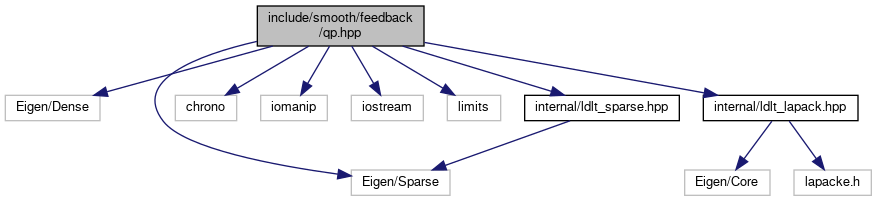
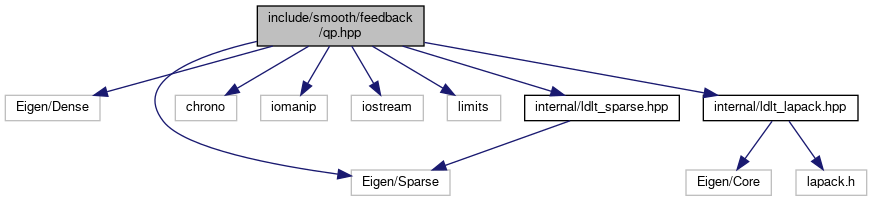
deploy: 332eeb6db991cc72f09c76f3dcb3248513830020

diff --git a/ldlt__lapack_8hpp_source.html b/ldlt__lapack_8hpp_source.html
@@ -102,12 +102,12 @@ $(function() {
 <div class="line"><a name="l00023"></a><span class="lineno">   23</span>&#160;<span class="comment">// OUT OF OR IN CONNECTION WITH THE SOFTWARE OR THE USE OR OTHER DEALINGS IN THE</span></div>
 <div class="line"><a name="l00024"></a><span class="lineno">   24</span>&#160;<span class="comment">// SOFTWARE.</span></div>
 <div class="line"><a name="l00025"></a><span class="lineno">   25</span>&#160; </div>
-<div class="line"><a name="l00026"></a><span class="lineno">   26</span>&#160;<span class="preprocessor">#ifndef SMOOOTH__FEEDBACK__INTERNAL__LDLT_LAPACK_HPP</span></div>
-<div class="line"><a name="l00027"></a><span class="lineno">   27</span>&#160;<span class="preprocessor">#define SMOOOTH__FEEDBACK__INTERNAL__LDLT_LAPACK_HPP</span></div>
+<div class="line"><a name="l00026"></a><span class="lineno">   26</span>&#160;<span class="preprocessor">#ifndef SMOOOTH__FEEDBACK__INTERNAL__LDLT_LAPACK_HPP_</span></div>
+<div class="line"><a name="l00027"></a><span class="lineno">   27</span>&#160;<span class="preprocessor">#define SMOOOTH__FEEDBACK__INTERNAL__LDLT_LAPACK_HPP_</span></div>
 <div class="line"><a name="l00028"></a><span class="lineno">   28</span>&#160; </div>
 <div class="line"><a name="l00029"></a><span class="lineno">   29</span>&#160;<span class="preprocessor">#include &lt;Eigen/Core&gt;</span></div>
 <div class="line"><a name="l00030"></a><span class="lineno">   30</span>&#160; </div>
-<div class="line"><a name="l00031"></a><span class="lineno">   31</span>&#160;<span class="preprocessor">#include &lt;lapacke.h&gt;</span></div>
+<div class="line"><a name="l00031"></a><span class="lineno">   31</span>&#160;<span class="preprocessor">#include &lt;lapack.h&gt;</span></div>
 <div class="line"><a name="l00032"></a><span class="lineno">   32</span>&#160; </div>
 <div class="line"><a name="l00038"></a><span class="lineno">   38</span>&#160;<span class="keyword">namespace </span>smooth::feedback::detail {</div>
 <div class="line"><a name="l00039"></a><span class="lineno">   39</span>&#160; </div>
@@ -115,90 +115,86 @@ $(function() {
 <div class="line"><a name="l00041"></a><span class="lineno">   41</span>&#160;<span class="keyword">template</span>&lt;<span class="keyword">typename</span> Scalar&gt;</div>
 <div class="line"><a name="l00042"></a><span class="lineno">   42</span>&#160;<span class="keyword">struct </span>lapack_xsytr</div>
 <div class="line"><a name="l00043"></a><span class="lineno">   43</span>&#160;{</div>
-<div class="line"><a name="l00044"></a><span class="lineno">   44</span>&#160;  <span class="keyword">static</span> constexpr <span class="keyword">auto</span> factor = &amp;LAPACKE_ssytrf_work;</div>
-<div class="line"><a name="l00045"></a><span class="lineno">   45</span>&#160;  <span class="keyword">static</span> constexpr <span class="keyword">auto</span> solve  = &amp;LAPACKE_ssytrs_work;</div>
+<div class="line"><a name="l00044"></a><span class="lineno">   44</span>&#160;  <span class="keyword">static</span> constexpr <span class="keyword">auto</span> factor = &amp;LAPACK_ssytrf;</div>
+<div class="line"><a name="l00045"></a><span class="lineno">   45</span>&#160;  <span class="keyword">static</span> constexpr <span class="keyword">auto</span> solve  = &amp;LAPACK_ssytrs;</div>
 <div class="line"><a name="l00046"></a><span class="lineno">   46</span>&#160;};</div>
 <div class="line"><a name="l00047"></a><span class="lineno">   47</span>&#160; </div>
 <div class="line"><a name="l00048"></a><span class="lineno">   48</span>&#160;<span class="keyword">template</span>&lt;&gt;</div>
 <div class="line"><a name="l00049"></a><span class="lineno">   49</span>&#160;<span class="keyword">struct </span>lapack_xsytr&lt;double&gt;</div>
 <div class="line"><a name="l00050"></a><span class="lineno">   50</span>&#160;{</div>
-<div class="line"><a name="l00051"></a><span class="lineno">   51</span>&#160;  <span class="keyword">static</span> constexpr <span class="keyword">auto</span> factor = &amp;LAPACKE_dsytrf_work;</div>
-<div class="line"><a name="l00052"></a><span class="lineno">   52</span>&#160;  <span class="keyword">static</span> constexpr <span class="keyword">auto</span> solve  = &amp;LAPACKE_dsytrs_work;</div>
+<div class="line"><a name="l00051"></a><span class="lineno">   51</span>&#160;  <span class="keyword">static</span> constexpr <span class="keyword">auto</span> factor = &amp;LAPACK_dsytrf;</div>
+<div class="line"><a name="l00052"></a><span class="lineno">   52</span>&#160;  <span class="keyword">static</span> constexpr <span class="keyword">auto</span> solve  = &amp;LAPACK_dsytrs;</div>
 <div class="line"><a name="l00053"></a><span class="lineno">   53</span>&#160;};</div>
 <div class="line"><a name="l00054"></a><span class="lineno">   54</span>&#160;<span class="comment">// \endcond</span></div>
 <div class="line"><a name="l00055"></a><span class="lineno">   55</span>&#160; </div>
 <div class="line"><a name="l00060"></a><span class="lineno">   60</span>&#160;<span class="keyword">template</span>&lt;<span class="keyword">typename</span> Scalar, Eigen::Index N&gt;</div>
-<div class="line"><a name="l00061"></a><span class="lineno">   61</span>&#160;  requires std::is_same_v&lt;Scalar, float&gt; || std::is_same_v&lt;Scalar, double&gt;</div>
-<div class="line"><a name="l00062"></a><span class="lineno"><a class="line" href="classsmooth_1_1feedback_1_1detail_1_1LDLTLapack.html">   62</a></span>&#160;<span class="keyword">class </span><a class="code" href="classsmooth_1_1feedback_1_1detail_1_1LDLTLapack.html">LDLTLapack</a></div>
-<div class="line"><a name="l00063"></a><span class="lineno">   63</span>&#160;{</div>
-<div class="line"><a name="l00064"></a><span class="lineno">   64</span>&#160;<span class="keyword">public</span>:</div>
-<div class="line"><a name="l00075"></a><span class="lineno"><a class="line" href="classsmooth_1_1feedback_1_1detail_1_1LDLTLapack.html#a8d80ff7602f1d84fb06fda08b73722f8">   75</a></span>&#160;  <span class="keyword">inline</span> <a class="code" href="classsmooth_1_1feedback_1_1detail_1_1LDLTLapack.html#a8d80ff7602f1d84fb06fda08b73722f8">LDLTLapack</a>(Eigen::Matrix&lt;Scalar, N, N, Eigen::ColMajor&gt; &amp;&amp; A)</div>
-<div class="line"><a name="l00076"></a><span class="lineno">   76</span>&#160;      : AF_(std::move(A)), IPIV_(AF_.cols())</div>
-<div class="line"><a name="l00077"></a><span class="lineno">   77</span>&#160;  {</div>
-<div class="line"><a name="l00078"></a><span class="lineno">   78</span>&#160;    <span class="keyword">static</span> constexpr lapack_int LWORK = N == -1 ? -1 : 3 * N;</div>
-<div class="line"><a name="l00079"></a><span class="lineno">   79</span>&#160;    Eigen::Matrix&lt;Scalar, LWORK, 1&gt; work(3 * AF_.cols());</div>
-<div class="line"><a name="l00080"></a><span class="lineno">   80</span>&#160; </div>
-<div class="line"><a name="l00081"></a><span class="lineno">   81</span>&#160;    info_ = (*lapack_xsytr&lt;Scalar&gt;::factor)(LAPACK_COL_MAJOR,</div>
-<div class="line"><a name="l00082"></a><span class="lineno">   82</span>&#160;      <span class="charliteral">&#39;U&#39;</span>,</div>
-<div class="line"><a name="l00083"></a><span class="lineno">   83</span>&#160;      AF_.cols(),</div>
-<div class="line"><a name="l00084"></a><span class="lineno">   84</span>&#160;      AF_.data(),</div>
-<div class="line"><a name="l00085"></a><span class="lineno">   85</span>&#160;      AF_.rows(),</div>
-<div class="line"><a name="l00086"></a><span class="lineno">   86</span>&#160;      IPIV_.data(),</div>
-<div class="line"><a name="l00087"></a><span class="lineno">   87</span>&#160;      work.data(),</div>
-<div class="line"><a name="l00088"></a><span class="lineno">   88</span>&#160;      work.size());</div>
-<div class="line"><a name="l00089"></a><span class="lineno">   89</span>&#160;  }</div>
-<div class="line"><a name="l00090"></a><span class="lineno">   90</span>&#160; </div>
-<div class="line"><a name="l00092"></a><span class="lineno"><a class="line" href="classsmooth_1_1feedback_1_1detail_1_1LDLTLapack.html#aa932dd4ec34af71264e3689f8a26afc0">   92</a></span>&#160;  <a class="code" href="classsmooth_1_1feedback_1_1detail_1_1LDLTLapack.html#aa932dd4ec34af71264e3689f8a26afc0">LDLTLapack</a>(<span class="keyword">const</span> <a class="code" href="classsmooth_1_1feedback_1_1detail_1_1LDLTLapack.html">LDLTLapack</a> &amp;) = <span class="keywordflow">default</span>;</div>
-<div class="line"><a name="l00094"></a><span class="lineno"><a class="line" href="classsmooth_1_1feedback_1_1detail_1_1LDLTLapack.html#acdf9f2a789ea530e8c24cc2b6a03770f">   94</a></span>&#160;  <a class="code" href="classsmooth_1_1feedback_1_1detail_1_1LDLTLapack.html">LDLTLapack</a> &amp; <a class="code" href="classsmooth_1_1feedback_1_1detail_1_1LDLTLapack.html#acdf9f2a789ea530e8c24cc2b6a03770f">operator=</a>(<span class="keyword">const</span> <a class="code" href="classsmooth_1_1feedback_1_1detail_1_1LDLTLapack.html">LDLTLapack</a> &amp;) = <span class="keywordflow">default</span>;</div>
-<div class="line"><a name="l00096"></a><span class="lineno"><a class="line" href="classsmooth_1_1feedback_1_1detail_1_1LDLTLapack.html#a6cee1de10cc138887ff8ea0b861b6167">   96</a></span>&#160;  <a class="code" href="classsmooth_1_1feedback_1_1detail_1_1LDLTLapack.html#a6cee1de10cc138887ff8ea0b861b6167">LDLTLapack</a>(<a class="code" href="classsmooth_1_1feedback_1_1detail_1_1LDLTLapack.html">LDLTLapack</a> &amp;&amp;) = <span class="keywordflow">default</span>;</div>
-<div class="line"><a name="l00098"></a><span class="lineno"><a class="line" href="classsmooth_1_1feedback_1_1detail_1_1LDLTLapack.html#a0b75419ad7bc215ed87468420ba7e77e">   98</a></span>&#160;  <a class="code" href="classsmooth_1_1feedback_1_1detail_1_1LDLTLapack.html">LDLTLapack</a> &amp; <a class="code" href="classsmooth_1_1feedback_1_1detail_1_1LDLTLapack.html#a0b75419ad7bc215ed87468420ba7e77e">operator=</a>(<a class="code" href="classsmooth_1_1feedback_1_1detail_1_1LDLTLapack.html">LDLTLapack</a> &amp;&amp;) = <span class="keywordflow">default</span>;</div>
-<div class="line"><a name="l00099"></a><span class="lineno">   99</span>&#160; </div>
-<div class="line"><a name="l00108"></a><span class="lineno"><a class="line" href="classsmooth_1_1feedback_1_1detail_1_1LDLTLapack.html#a97fc9efa34746c8365acac3efdc0eb92">  108</a></span>&#160;  <span class="keyword">inline</span> <span class="keywordtype">int</span> <a class="code" href="classsmooth_1_1feedback_1_1detail_1_1LDLTLapack.html#a97fc9efa34746c8365acac3efdc0eb92">info</a>()<span class="keyword"> const </span>{ <span class="keywordflow">return</span> info_; }</div>
-<div class="line"><a name="l00109"></a><span class="lineno">  109</span>&#160; </div>
-<div class="line"><a name="l00120"></a><span class="lineno">  120</span>&#160;  <span class="keyword">template</span>&lt;<span class="keyword">typename</span> Derived&gt;</div>
-<div class="line"><a name="l00121"></a><span class="lineno"><a class="line" href="classsmooth_1_1feedback_1_1detail_1_1LDLTLapack.html#af78ecb41485e7f7f1d6261b6369bf4d3">  121</a></span>&#160;  <span class="keyword">inline</span> <a class="code" href="classsmooth_1_1feedback_1_1detail_1_1LDLTLapack.html#af78ecb41485e7f7f1d6261b6369bf4d3">LDLTLapack</a>(<span class="keyword">const</span> Eigen::MatrixBase&lt;Derived&gt; &amp; A)</div>
-<div class="line"><a name="l00122"></a><span class="lineno">  122</span>&#160;      : <a class="code" href="classsmooth_1_1feedback_1_1detail_1_1LDLTLapack.html">LDLTLapack</a>(Eigen::Matrix&lt;Scalar, N, N&gt;(A))</div>
-<div class="line"><a name="l00123"></a><span class="lineno">  123</span>&#160;  {}</div>
-<div class="line"><a name="l00124"></a><span class="lineno">  124</span>&#160; </div>
-<div class="line"><a name="l00130"></a><span class="lineno"><a class="line" href="classsmooth_1_1feedback_1_1detail_1_1LDLTLapack.html#a5e89791eb9b05169fb0b88a4a4c3da31">  130</a></span>&#160;  <span class="keyword">inline</span> <span class="keywordtype">void</span> <a class="code" href="classsmooth_1_1feedback_1_1detail_1_1LDLTLapack.html#a5e89791eb9b05169fb0b88a4a4c3da31">solve_inplace</a>(Eigen::Matrix&lt;Scalar, N, 1&gt; &amp; b)</div>
-<div class="line"><a name="l00131"></a><span class="lineno">  131</span>&#160;  {</div>
-<div class="line"><a name="l00132"></a><span class="lineno">  132</span>&#160;    info_ = (*lapack_xsytr&lt;Scalar&gt;::solve)(LAPACK_COL_MAJOR,</div>
-<div class="line"><a name="l00133"></a><span class="lineno">  133</span>&#160;      <span class="charliteral">&#39;U&#39;</span>,</div>
-<div class="line"><a name="l00134"></a><span class="lineno">  134</span>&#160;      AF_.cols(),</div>
-<div class="line"><a name="l00135"></a><span class="lineno">  135</span>&#160;      1,</div>
-<div class="line"><a name="l00136"></a><span class="lineno">  136</span>&#160;      AF_.data(),</div>
-<div class="line"><a name="l00137"></a><span class="lineno">  137</span>&#160;      AF_.rows(),</div>
-<div class="line"><a name="l00138"></a><span class="lineno">  138</span>&#160;      IPIV_.data(),</div>
-<div class="line"><a name="l00139"></a><span class="lineno">  139</span>&#160;      b.data(),</div>
-<div class="line"><a name="l00140"></a><span class="lineno">  140</span>&#160;      AF_.rows());</div>
-<div class="line"><a name="l00141"></a><span class="lineno">  141</span>&#160;  }</div>
-<div class="line"><a name="l00142"></a><span class="lineno">  142</span>&#160; </div>
-<div class="line"><a name="l00150"></a><span class="lineno"><a class="line" href="classsmooth_1_1feedback_1_1detail_1_1LDLTLapack.html#ac20fea4805898c3e3069863e3cf4e756">  150</a></span>&#160;  <span class="keyword">inline</span> Eigen::Matrix&lt;Scalar, N, 1&gt; <a class="code" href="classsmooth_1_1feedback_1_1detail_1_1LDLTLapack.html#ac20fea4805898c3e3069863e3cf4e756">solve</a>(<span class="keyword">const</span> Eigen::Matrix&lt;Scalar, N, 1&gt; &amp; b)</div>
-<div class="line"><a name="l00151"></a><span class="lineno">  151</span>&#160;  {</div>
-<div class="line"><a name="l00152"></a><span class="lineno">  152</span>&#160;    Eigen::Matrix&lt;Scalar, N, 1&gt; x = b;</div>
-<div class="line"><a name="l00153"></a><span class="lineno">  153</span>&#160;    <a class="code" href="classsmooth_1_1feedback_1_1detail_1_1LDLTLapack.html#a5e89791eb9b05169fb0b88a4a4c3da31">solve_inplace</a>(x);</div>
-<div class="line"><a name="l00154"></a><span class="lineno">  154</span>&#160;    <span class="keywordflow">return</span> x;</div>
-<div class="line"><a name="l00155"></a><span class="lineno">  155</span>&#160;  }</div>
-<div class="line"><a name="l00156"></a><span class="lineno">  156</span>&#160; </div>
-<div class="line"><a name="l00157"></a><span class="lineno">  157</span>&#160;<span class="keyword">private</span>:</div>
-<div class="line"><a name="l00158"></a><span class="lineno">  158</span>&#160;  lapack_int info_;</div>
-<div class="line"><a name="l00159"></a><span class="lineno">  159</span>&#160;  Eigen::Matrix&lt;Scalar, N, N, Eigen::ColMajor&gt; AF_;</div>
-<div class="line"><a name="l00160"></a><span class="lineno">  160</span>&#160;  Eigen::Matrix&lt;lapack_int, N, 1&gt; IPIV_;</div>
-<div class="line"><a name="l00161"></a><span class="lineno">  161</span>&#160;};</div>
-<div class="line"><a name="l00162"></a><span class="lineno">  162</span>&#160; </div>
-<div class="line"><a name="l00163"></a><span class="lineno">  163</span>&#160;}  <span class="comment">// namespace smooth::feedback::detail</span></div>
-<div class="line"><a name="l00164"></a><span class="lineno">  164</span>&#160; </div>
-<div class="line"><a name="l00165"></a><span class="lineno">  165</span>&#160;<span class="preprocessor">#endif  </span><span class="comment">// SMOOOTH__FEEDBACK__INTERNAL__LDLT_LAPACK_HPP</span></div>
-<div class="ttc" id="aclasssmooth_1_1feedback_1_1detail_1_1LDLTLapack_html"><div class="ttname"><a href="classsmooth_1_1feedback_1_1detail_1_1LDLTLapack.html">smooth::feedback::detail::LDLTLapack</a></div><div class="ttdoc">Wrapper for LAPACKE xSYTRF / xSYTRS routines for factorizing and solving symmetric linear systems of ...</div><div class="ttdef"><b>Definition:</b> <a href="ldlt__lapack_8hpp_source.html#l00062">ldlt_lapack.hpp:63</a></div></div>
+<div class="line"><a name="l00061"></a><span class="lineno"><a class="line" href="classsmooth_1_1feedback_1_1detail_1_1LDLTLapack.html">   61</a></span>&#160;  requires std::is_same_v&lt;Scalar, float&gt; || std::is_same_v&lt;Scalar, double&gt; <span class="keyword">class </span><a class="code" href="classsmooth_1_1feedback_1_1detail_1_1LDLTLapack.html">LDLTLapack</a></div>
+<div class="line"><a name="l00062"></a><span class="lineno">   62</span>&#160;{</div>
+<div class="line"><a name="l00063"></a><span class="lineno">   63</span>&#160;<span class="keyword">public</span>:</div>
+<div class="line"><a name="l00074"></a><span class="lineno"><a class="line" href="classsmooth_1_1feedback_1_1detail_1_1LDLTLapack.html#a8d80ff7602f1d84fb06fda08b73722f8">   74</a></span>&#160;  <span class="keyword">inline</span> <a class="code" href="classsmooth_1_1feedback_1_1detail_1_1LDLTLapack.html#a8d80ff7602f1d84fb06fda08b73722f8">LDLTLapack</a>(Eigen::Matrix&lt;Scalar, N, N, Eigen::ColMajor&gt; &amp;&amp; A)</div>
+<div class="line"><a name="l00075"></a><span class="lineno">   75</span>&#160;      : AF_(std::move(A)), IPIV_(AF_.cols())</div>
+<div class="line"><a name="l00076"></a><span class="lineno">   76</span>&#160;  {</div>
+<div class="line"><a name="l00077"></a><span class="lineno">   77</span>&#160;    <span class="keyword">static</span> constexpr lapack_int LWORK = N == -1 ? -1 : 3 * N;</div>
+<div class="line"><a name="l00078"></a><span class="lineno">   78</span>&#160;    Eigen::Matrix&lt;Scalar, LWORK, 1&gt; work(3 * AF_.cols());</div>
+<div class="line"><a name="l00079"></a><span class="lineno">   79</span>&#160; </div>
+<div class="line"><a name="l00080"></a><span class="lineno">   80</span>&#160;    <span class="keyword">static</span> constexpr <span class="keywordtype">char</span> U = <span class="charliteral">&#39;U&#39;</span>;</div>
+<div class="line"><a name="l00081"></a><span class="lineno">   81</span>&#160;    <span class="keyword">const</span> lapack_int n      = AF_.cols();</div>
+<div class="line"><a name="l00082"></a><span class="lineno">   82</span>&#160;    <span class="keyword">const</span> lapack_int lda    = AF_.rows();</div>
+<div class="line"><a name="l00083"></a><span class="lineno">   83</span>&#160;    <span class="keyword">const</span> lapack_int lwork  = work.size();</div>
+<div class="line"><a name="l00084"></a><span class="lineno">   84</span>&#160; </div>
+<div class="line"><a name="l00085"></a><span class="lineno">   85</span>&#160;    (*lapack_xsytr&lt;Scalar&gt;::factor)(</div>
+<div class="line"><a name="l00086"></a><span class="lineno">   86</span>&#160;      &amp;U, &amp;n, AF_.data(), &amp;lda, IPIV_.data(), work.data(), &amp;lwork, &amp;info_);</div>
+<div class="line"><a name="l00087"></a><span class="lineno">   87</span>&#160;  }</div>
+<div class="line"><a name="l00088"></a><span class="lineno">   88</span>&#160; </div>
+<div class="line"><a name="l00090"></a><span class="lineno"><a class="line" href="classsmooth_1_1feedback_1_1detail_1_1LDLTLapack.html#aa932dd4ec34af71264e3689f8a26afc0">   90</a></span>&#160;  <a class="code" href="classsmooth_1_1feedback_1_1detail_1_1LDLTLapack.html#aa932dd4ec34af71264e3689f8a26afc0">LDLTLapack</a>(<span class="keyword">const</span> <a class="code" href="classsmooth_1_1feedback_1_1detail_1_1LDLTLapack.html">LDLTLapack</a> &amp;) = <span class="keywordflow">default</span>;</div>
+<div class="line"><a name="l00092"></a><span class="lineno"><a class="line" href="classsmooth_1_1feedback_1_1detail_1_1LDLTLapack.html#acdf9f2a789ea530e8c24cc2b6a03770f">   92</a></span>&#160;  <a class="code" href="classsmooth_1_1feedback_1_1detail_1_1LDLTLapack.html">LDLTLapack</a> &amp; <a class="code" href="classsmooth_1_1feedback_1_1detail_1_1LDLTLapack.html#acdf9f2a789ea530e8c24cc2b6a03770f">operator=</a>(<span class="keyword">const</span> <a class="code" href="classsmooth_1_1feedback_1_1detail_1_1LDLTLapack.html">LDLTLapack</a> &amp;) = <span class="keywordflow">default</span>;</div>
+<div class="line"><a name="l00094"></a><span class="lineno"><a class="line" href="classsmooth_1_1feedback_1_1detail_1_1LDLTLapack.html#a6cee1de10cc138887ff8ea0b861b6167">   94</a></span>&#160;  <a class="code" href="classsmooth_1_1feedback_1_1detail_1_1LDLTLapack.html#a6cee1de10cc138887ff8ea0b861b6167">LDLTLapack</a>(<a class="code" href="classsmooth_1_1feedback_1_1detail_1_1LDLTLapack.html">LDLTLapack</a> &amp;&amp;) = <span class="keywordflow">default</span>;</div>
+<div class="line"><a name="l00096"></a><span class="lineno"><a class="line" href="classsmooth_1_1feedback_1_1detail_1_1LDLTLapack.html#a0b75419ad7bc215ed87468420ba7e77e">   96</a></span>&#160;  <a class="code" href="classsmooth_1_1feedback_1_1detail_1_1LDLTLapack.html">LDLTLapack</a> &amp; <a class="code" href="classsmooth_1_1feedback_1_1detail_1_1LDLTLapack.html#a0b75419ad7bc215ed87468420ba7e77e">operator=</a>(<a class="code" href="classsmooth_1_1feedback_1_1detail_1_1LDLTLapack.html">LDLTLapack</a> &amp;&amp;) = <span class="keywordflow">default</span>;</div>
+<div class="line"><a name="l00097"></a><span class="lineno">   97</span>&#160; </div>
+<div class="line"><a name="l00106"></a><span class="lineno"><a class="line" href="classsmooth_1_1feedback_1_1detail_1_1LDLTLapack.html#a97fc9efa34746c8365acac3efdc0eb92">  106</a></span>&#160;  <span class="keyword">inline</span> <span class="keywordtype">int</span> <a class="code" href="classsmooth_1_1feedback_1_1detail_1_1LDLTLapack.html#a97fc9efa34746c8365acac3efdc0eb92">info</a>()<span class="keyword"> const </span>{ <span class="keywordflow">return</span> info_; }</div>
+<div class="line"><a name="l00107"></a><span class="lineno">  107</span>&#160; </div>
+<div class="line"><a name="l00118"></a><span class="lineno">  118</span>&#160;  <span class="keyword">template</span>&lt;<span class="keyword">typename</span> Derived&gt;</div>
+<div class="line"><a name="l00119"></a><span class="lineno"><a class="line" href="classsmooth_1_1feedback_1_1detail_1_1LDLTLapack.html#af78ecb41485e7f7f1d6261b6369bf4d3">  119</a></span>&#160;  <span class="keyword">inline</span> <a class="code" href="classsmooth_1_1feedback_1_1detail_1_1LDLTLapack.html#af78ecb41485e7f7f1d6261b6369bf4d3">LDLTLapack</a>(<span class="keyword">const</span> Eigen::MatrixBase&lt;Derived&gt; &amp; A)</div>
+<div class="line"><a name="l00120"></a><span class="lineno">  120</span>&#160;      : <a class="code" href="classsmooth_1_1feedback_1_1detail_1_1LDLTLapack.html">LDLTLapack</a>(Eigen::Matrix&lt;Scalar, N, N&gt;(A))</div>
+<div class="line"><a name="l00121"></a><span class="lineno">  121</span>&#160;  {}</div>
+<div class="line"><a name="l00122"></a><span class="lineno">  122</span>&#160; </div>
+<div class="line"><a name="l00128"></a><span class="lineno"><a class="line" href="classsmooth_1_1feedback_1_1detail_1_1LDLTLapack.html#a5e89791eb9b05169fb0b88a4a4c3da31">  128</a></span>&#160;  <span class="keyword">inline</span> <span class="keywordtype">void</span> <a class="code" href="classsmooth_1_1feedback_1_1detail_1_1LDLTLapack.html#a5e89791eb9b05169fb0b88a4a4c3da31">solve_inplace</a>(Eigen::Matrix&lt;Scalar, N, 1&gt; &amp; b)</div>
+<div class="line"><a name="l00129"></a><span class="lineno">  129</span>&#160;  {</div>
+<div class="line"><a name="l00130"></a><span class="lineno">  130</span>&#160;    <span class="keyword">static</span> constexpr <span class="keywordtype">char</span> U         = <span class="charliteral">&#39;U&#39;</span>;</div>
+<div class="line"><a name="l00131"></a><span class="lineno">  131</span>&#160;    <span class="keyword">static</span> constexpr lapack_int one = 1;</div>
+<div class="line"><a name="l00132"></a><span class="lineno">  132</span>&#160;    <span class="keyword">const</span> lapack_int n              = AF_.cols();</div>
+<div class="line"><a name="l00133"></a><span class="lineno">  133</span>&#160;    <span class="keyword">const</span> lapack_int lda            = AF_.rows();</div>
+<div class="line"><a name="l00134"></a><span class="lineno">  134</span>&#160; </div>
+<div class="line"><a name="l00135"></a><span class="lineno">  135</span>&#160;    (*lapack_xsytr&lt;Scalar&gt;::solve)(</div>
+<div class="line"><a name="l00136"></a><span class="lineno">  136</span>&#160;      &amp;U, &amp;n, &amp;one, AF_.data(), &amp;lda, IPIV_.data(), b.data(), &amp;lda, &amp;info_);</div>
+<div class="line"><a name="l00137"></a><span class="lineno">  137</span>&#160;  }</div>
+<div class="line"><a name="l00138"></a><span class="lineno">  138</span>&#160; </div>
+<div class="line"><a name="l00146"></a><span class="lineno"><a class="line" href="classsmooth_1_1feedback_1_1detail_1_1LDLTLapack.html#ac20fea4805898c3e3069863e3cf4e756">  146</a></span>&#160;  <span class="keyword">inline</span> Eigen::Matrix&lt;Scalar, N, 1&gt; <a class="code" href="classsmooth_1_1feedback_1_1detail_1_1LDLTLapack.html#ac20fea4805898c3e3069863e3cf4e756">solve</a>(<span class="keyword">const</span> Eigen::Matrix&lt;Scalar, N, 1&gt; &amp; b)</div>
+<div class="line"><a name="l00147"></a><span class="lineno">  147</span>&#160;  {</div>
+<div class="line"><a name="l00148"></a><span class="lineno">  148</span>&#160;    Eigen::Matrix&lt;Scalar, N, 1&gt; x = b;</div>
+<div class="line"><a name="l00149"></a><span class="lineno">  149</span>&#160;    <a class="code" href="classsmooth_1_1feedback_1_1detail_1_1LDLTLapack.html#a5e89791eb9b05169fb0b88a4a4c3da31">solve_inplace</a>(x);</div>
+<div class="line"><a name="l00150"></a><span class="lineno">  150</span>&#160;    <span class="keywordflow">return</span> x;</div>
+<div class="line"><a name="l00151"></a><span class="lineno">  151</span>&#160;  }</div>
+<div class="line"><a name="l00152"></a><span class="lineno">  152</span>&#160; </div>
+<div class="line"><a name="l00153"></a><span class="lineno">  153</span>&#160;<span class="keyword">private</span>:</div>
+<div class="line"><a name="l00154"></a><span class="lineno">  154</span>&#160;  lapack_int info_;</div>
+<div class="line"><a name="l00155"></a><span class="lineno">  155</span>&#160;  Eigen::Matrix&lt;Scalar, N, N, Eigen::ColMajor&gt; AF_;</div>
+<div class="line"><a name="l00156"></a><span class="lineno">  156</span>&#160;  Eigen::Matrix&lt;lapack_int, N, 1&gt; IPIV_;</div>
+<div class="line"><a name="l00157"></a><span class="lineno">  157</span>&#160;};</div>
+<div class="line"><a name="l00158"></a><span class="lineno">  158</span>&#160; </div>
+<div class="line"><a name="l00159"></a><span class="lineno">  159</span>&#160;}  <span class="comment">// namespace smooth::feedback::detail</span></div>
+<div class="line"><a name="l00160"></a><span class="lineno">  160</span>&#160; </div>
+<div class="line"><a name="l00161"></a><span class="lineno">  161</span>&#160;<span class="preprocessor">#endif  </span><span class="comment">// SMOOOTH__FEEDBACK__INTERNAL__LDLT_LAPACK_HPP_</span></div>
+<div class="ttc" id="aclasssmooth_1_1feedback_1_1detail_1_1LDLTLapack_html"><div class="ttname"><a href="classsmooth_1_1feedback_1_1detail_1_1LDLTLapack.html">smooth::feedback::detail::LDLTLapack</a></div><div class="ttdoc">Wrapper for LAPACKE xSYTRF / xSYTRS routines for factorizing and solving symmetric linear systems of ...</div><div class="ttdef"><b>Definition:</b> <a href="ldlt__lapack_8hpp_source.html#l00061">ldlt_lapack.hpp:62</a></div></div>
 <div class="ttc" id="aclasssmooth_1_1feedback_1_1detail_1_1LDLTLapack_html_a0b75419ad7bc215ed87468420ba7e77e"><div class="ttname"><a href="classsmooth_1_1feedback_1_1detail_1_1LDLTLapack.html#a0b75419ad7bc215ed87468420ba7e77e">smooth::feedback::detail::LDLTLapack::operator=</a></div><div class="ttdeci">LDLTLapack &amp; operator=(LDLTLapack &amp;&amp;)=default</div><div class="ttdoc">Default move assignment.</div></div>
-<div class="ttc" id="aclasssmooth_1_1feedback_1_1detail_1_1LDLTLapack_html_a5e89791eb9b05169fb0b88a4a4c3da31"><div class="ttname"><a href="classsmooth_1_1feedback_1_1detail_1_1LDLTLapack.html#a5e89791eb9b05169fb0b88a4a4c3da31">smooth::feedback::detail::LDLTLapack::solve_inplace</a></div><div class="ttdeci">void solve_inplace(Eigen::Matrix&lt; Scalar, N, 1 &gt; &amp;b)</div><div class="ttdoc">Solve linear symmetric system of equations in-place.</div><div class="ttdef"><b>Definition:</b> <a href="ldlt__lapack_8hpp_source.html#l00130">ldlt_lapack.hpp:130</a></div></div>
+<div class="ttc" id="aclasssmooth_1_1feedback_1_1detail_1_1LDLTLapack_html_a5e89791eb9b05169fb0b88a4a4c3da31"><div class="ttname"><a href="classsmooth_1_1feedback_1_1detail_1_1LDLTLapack.html#a5e89791eb9b05169fb0b88a4a4c3da31">smooth::feedback::detail::LDLTLapack::solve_inplace</a></div><div class="ttdeci">void solve_inplace(Eigen::Matrix&lt; Scalar, N, 1 &gt; &amp;b)</div><div class="ttdoc">Solve linear symmetric system of equations in-place.</div><div class="ttdef"><b>Definition:</b> <a href="ldlt__lapack_8hpp_source.html#l00128">ldlt_lapack.hpp:128</a></div></div>
 <div class="ttc" id="aclasssmooth_1_1feedback_1_1detail_1_1LDLTLapack_html_a6cee1de10cc138887ff8ea0b861b6167"><div class="ttname"><a href="classsmooth_1_1feedback_1_1detail_1_1LDLTLapack.html#a6cee1de10cc138887ff8ea0b861b6167">smooth::feedback::detail::LDLTLapack::LDLTLapack</a></div><div class="ttdeci">LDLTLapack(LDLTLapack &amp;&amp;)=default</div><div class="ttdoc">Default move constructor.</div></div>
-<div class="ttc" id="aclasssmooth_1_1feedback_1_1detail_1_1LDLTLapack_html_a8d80ff7602f1d84fb06fda08b73722f8"><div class="ttname"><a href="classsmooth_1_1feedback_1_1detail_1_1LDLTLapack.html#a8d80ff7602f1d84fb06fda08b73722f8">smooth::feedback::detail::LDLTLapack::LDLTLapack</a></div><div class="ttdeci">LDLTLapack(Eigen::Matrix&lt; Scalar, N, N, Eigen::ColMajor &gt; &amp;&amp;A)</div><div class="ttdoc">Factorize symmetric  to enable solving .</div><div class="ttdef"><b>Definition:</b> <a href="ldlt__lapack_8hpp_source.html#l00075">ldlt_lapack.hpp:75</a></div></div>
-<div class="ttc" id="aclasssmooth_1_1feedback_1_1detail_1_1LDLTLapack_html_a97fc9efa34746c8365acac3efdc0eb92"><div class="ttname"><a href="classsmooth_1_1feedback_1_1detail_1_1LDLTLapack.html#a97fc9efa34746c8365acac3efdc0eb92">smooth::feedback::detail::LDLTLapack::info</a></div><div class="ttdeci">int info() const</div><div class="ttdoc">Factorization status.</div><div class="ttdef"><b>Definition:</b> <a href="ldlt__lapack_8hpp_source.html#l00108">ldlt_lapack.hpp:108</a></div></div>
+<div class="ttc" id="aclasssmooth_1_1feedback_1_1detail_1_1LDLTLapack_html_a8d80ff7602f1d84fb06fda08b73722f8"><div class="ttname"><a href="classsmooth_1_1feedback_1_1detail_1_1LDLTLapack.html#a8d80ff7602f1d84fb06fda08b73722f8">smooth::feedback::detail::LDLTLapack::LDLTLapack</a></div><div class="ttdeci">LDLTLapack(Eigen::Matrix&lt; Scalar, N, N, Eigen::ColMajor &gt; &amp;&amp;A)</div><div class="ttdoc">Factorize symmetric  to enable solving .</div><div class="ttdef"><b>Definition:</b> <a href="ldlt__lapack_8hpp_source.html#l00074">ldlt_lapack.hpp:74</a></div></div>
+<div class="ttc" id="aclasssmooth_1_1feedback_1_1detail_1_1LDLTLapack_html_a97fc9efa34746c8365acac3efdc0eb92"><div class="ttname"><a href="classsmooth_1_1feedback_1_1detail_1_1LDLTLapack.html#a97fc9efa34746c8365acac3efdc0eb92">smooth::feedback::detail::LDLTLapack::info</a></div><div class="ttdeci">int info() const</div><div class="ttdoc">Factorization status.</div><div class="ttdef"><b>Definition:</b> <a href="ldlt__lapack_8hpp_source.html#l00106">ldlt_lapack.hpp:106</a></div></div>
 <div class="ttc" id="aclasssmooth_1_1feedback_1_1detail_1_1LDLTLapack_html_aa932dd4ec34af71264e3689f8a26afc0"><div class="ttname"><a href="classsmooth_1_1feedback_1_1detail_1_1LDLTLapack.html#aa932dd4ec34af71264e3689f8a26afc0">smooth::feedback::detail::LDLTLapack::LDLTLapack</a></div><div class="ttdeci">LDLTLapack(const LDLTLapack &amp;)=default</div><div class="ttdoc">Default copy constructor.</div></div>
-<div class="ttc" id="aclasssmooth_1_1feedback_1_1detail_1_1LDLTLapack_html_ac20fea4805898c3e3069863e3cf4e756"><div class="ttname"><a href="classsmooth_1_1feedback_1_1detail_1_1LDLTLapack.html#ac20fea4805898c3e3069863e3cf4e756">smooth::feedback::detail::LDLTLapack::solve</a></div><div class="ttdeci">Eigen::Matrix&lt; Scalar, N, 1 &gt; solve(const Eigen::Matrix&lt; Scalar, N, 1 &gt; &amp;b)</div><div class="ttdoc">Solve linear symmetric system of equations.</div><div class="ttdef"><b>Definition:</b> <a href="ldlt__lapack_8hpp_source.html#l00150">ldlt_lapack.hpp:150</a></div></div>
+<div class="ttc" id="aclasssmooth_1_1feedback_1_1detail_1_1LDLTLapack_html_ac20fea4805898c3e3069863e3cf4e756"><div class="ttname"><a href="classsmooth_1_1feedback_1_1detail_1_1LDLTLapack.html#ac20fea4805898c3e3069863e3cf4e756">smooth::feedback::detail::LDLTLapack::solve</a></div><div class="ttdeci">Eigen::Matrix&lt; Scalar, N, 1 &gt; solve(const Eigen::Matrix&lt; Scalar, N, 1 &gt; &amp;b)</div><div class="ttdoc">Solve linear symmetric system of equations.</div><div class="ttdef"><b>Definition:</b> <a href="ldlt__lapack_8hpp_source.html#l00146">ldlt_lapack.hpp:146</a></div></div>
 <div class="ttc" id="aclasssmooth_1_1feedback_1_1detail_1_1LDLTLapack_html_acdf9f2a789ea530e8c24cc2b6a03770f"><div class="ttname"><a href="classsmooth_1_1feedback_1_1detail_1_1LDLTLapack.html#acdf9f2a789ea530e8c24cc2b6a03770f">smooth::feedback::detail::LDLTLapack::operator=</a></div><div class="ttdeci">LDLTLapack &amp; operator=(const LDLTLapack &amp;)=default</div><div class="ttdoc">Default copy assignment.</div></div>
-<div class="ttc" id="aclasssmooth_1_1feedback_1_1detail_1_1LDLTLapack_html_af78ecb41485e7f7f1d6261b6369bf4d3"><div class="ttname"><a href="classsmooth_1_1feedback_1_1detail_1_1LDLTLapack.html#af78ecb41485e7f7f1d6261b6369bf4d3">smooth::feedback::detail::LDLTLapack::LDLTLapack</a></div><div class="ttdeci">LDLTLapack(const Eigen::MatrixBase&lt; Derived &gt; &amp;A)</div><div class="ttdoc">Factorize symmetric  to enable solving .</div><div class="ttdef"><b>Definition:</b> <a href="ldlt__lapack_8hpp_source.html#l00121">ldlt_lapack.hpp:121</a></div></div>
+<div class="ttc" id="aclasssmooth_1_1feedback_1_1detail_1_1LDLTLapack_html_af78ecb41485e7f7f1d6261b6369bf4d3"><div class="ttname"><a href="classsmooth_1_1feedback_1_1detail_1_1LDLTLapack.html#af78ecb41485e7f7f1d6261b6369bf4d3">smooth::feedback::detail::LDLTLapack::LDLTLapack</a></div><div class="ttdeci">LDLTLapack(const Eigen::MatrixBase&lt; Derived &gt; &amp;A)</div><div class="ttdoc">Factorize symmetric  to enable solving .</div><div class="ttdef"><b>Definition:</b> <a href="ldlt__lapack_8hpp_source.html#l00119">ldlt_lapack.hpp:119</a></div></div>
 </div><!-- fragment --></div><!-- contents -->
 <!-- start footer part -->
 <hr class="footer"/><address class="footer"><small>

diff --git a/classsmooth_1_1feedback_1_1detail_1_1LDLTLapack.html b/classsmooth_1_1feedback_1_1detail_1_1LDLTLapack.html
@@ -127,7 +127,7 @@ class smooth::feedback::detail::LDLTLapack&lt; Scalar, N &gt;</h3>
 
 <p>Wrapper for LAPACKE xSYTRF / xSYTRS routines for factorizing and solving symmetric linear systems of equations. </p>
 
-<p class="definition">Definition at line <a class="el" href="ldlt__lapack_8hpp_source.html#l00062">62</a> of file <a class="el" href="ldlt__lapack_8hpp_source.html">ldlt_lapack.hpp</a>.</p>
+<p class="definition">Definition at line <a class="el" href="ldlt__lapack_8hpp_source.html#l00061">61</a> of file <a class="el" href="ldlt__lapack_8hpp_source.html">ldlt_lapack.hpp</a>.</p>
 </div><h2 class="groupheader">Constructor &amp; Destructor Documentation</h2>
 <a id="a8d80ff7602f1d84fb06fda08b73722f8"></a>
 <h2 class="memtitle"><span class="permalink"><a href="#a8d80ff7602f1d84fb06fda08b73722f8">&#9670;&nbsp;</a></span>LDLTLapack() <span class="overload">[1/2]</span></h2>
@@ -165,7 +165,7 @@ template&lt;typename Scalar , Eigen::Index N&gt; </div>
 </dl>
 <dl class="section note"><dt>Note</dt><dd>Only the upper triangular part of \( A \) is accessed. </dd></dl>
 
-<p class="definition">Definition at line <a class="el" href="ldlt__lapack_8hpp_source.html#l00075">75</a> of file <a class="el" href="ldlt__lapack_8hpp_source.html">ldlt_lapack.hpp</a>.</p>
+<p class="definition">Definition at line <a class="el" href="ldlt__lapack_8hpp_source.html#l00074">74</a> of file <a class="el" href="ldlt__lapack_8hpp_source.html">ldlt_lapack.hpp</a>.</p>
 
 </div>
 </div>
@@ -207,7 +207,7 @@ template&lt;typename Derived &gt; </div>
 </dl>
 <dl class="section note"><dt>Note</dt><dd>Only the upper triangular part of \( A \) is accessed. </dd></dl>
 
-<p class="definition">Definition at line <a class="el" href="ldlt__lapack_8hpp_source.html#l00121">121</a> of file <a class="el" href="ldlt__lapack_8hpp_source.html">ldlt_lapack.hpp</a>.</p>
+<p class="definition">Definition at line <a class="el" href="ldlt__lapack_8hpp_source.html#l00119">119</a> of file <a class="el" href="ldlt__lapack_8hpp_source.html">ldlt_lapack.hpp</a>.</p>
 
 </div>
 </div>
@@ -244,7 +244,7 @@ template&lt;typename Scalar , Eigen::Index N&gt; </div>
 <li>\( i &gt; 0 \): input matrix is singular s.t. \( D(i-1, i-1) = 0 \). </li>
 </ul>
 
-<p class="definition">Definition at line <a class="el" href="ldlt__lapack_8hpp_source.html#l00108">108</a> of file <a class="el" href="ldlt__lapack_8hpp_source.html">ldlt_lapack.hpp</a>.</p>
+<p class="definition">Definition at line <a class="el" href="ldlt__lapack_8hpp_source.html#l00106">106</a> of file <a class="el" href="ldlt__lapack_8hpp_source.html">ldlt_lapack.hpp</a>.</p>
 
 </div>
 </div>
@@ -283,7 +283,7 @@ template&lt;typename Scalar , Eigen::Index N&gt; </div>
 </dl>
 <dl class="section return"><dt>Returns</dt><dd>solution \( x \). </dd></dl>
 
-<p class="definition">Definition at line <a class="el" href="ldlt__lapack_8hpp_source.html#l00150">150</a> of file <a class="el" href="ldlt__lapack_8hpp_source.html">ldlt_lapack.hpp</a>.</p>
+<p class="definition">Definition at line <a class="el" href="ldlt__lapack_8hpp_source.html#l00146">146</a> of file <a class="el" href="ldlt__lapack_8hpp_source.html">ldlt_lapack.hpp</a>.</p>
 
 </div>
 </div>
@@ -321,7 +321,7 @@ template&lt;typename Scalar , Eigen::Index N&gt; </div>
   </dd>
 </dl>
 
-<p class="definition">Definition at line <a class="el" href="ldlt__lapack_8hpp_source.html#l00130">130</a> of file <a class="el" href="ldlt__lapack_8hpp_source.html">ldlt_lapack.hpp</a>.</p>
+<p class="definition">Definition at line <a class="el" href="ldlt__lapack_8hpp_source.html#l00128">128</a> of file <a class="el" href="ldlt__lapack_8hpp_source.html">ldlt_lapack.hpp</a>.</p>
 
 </div>
 </div>

diff --git a/qp_8hpp_source.html b/qp_8hpp_source.html
@@ -764,7 +764,7 @@ $(function() {
 <div class="line"><a name="l00827"></a><span class="lineno">  827</span>&#160;}  <span class="comment">// namespace smooth::feedback</span></div>
 <div class="line"><a name="l00828"></a><span class="lineno">  828</span>&#160; </div>
 <div class="line"><a name="l00829"></a><span class="lineno">  829</span>&#160;<span class="preprocessor">#endif  </span><span class="comment">// SMOOTH__FEEDBACK__QP_HPP_</span></div>
-<div class="ttc" id="aclasssmooth_1_1feedback_1_1detail_1_1LDLTLapack_html"><div class="ttname"><a href="classsmooth_1_1feedback_1_1detail_1_1LDLTLapack.html">smooth::feedback::detail::LDLTLapack</a></div><div class="ttdoc">Wrapper for LAPACKE xSYTRF / xSYTRS routines for factorizing and solving symmetric linear systems of ...</div><div class="ttdef"><b>Definition:</b> <a href="ldlt__lapack_8hpp_source.html#l00062">ldlt_lapack.hpp:63</a></div></div>
+<div class="ttc" id="aclasssmooth_1_1feedback_1_1detail_1_1LDLTLapack_html"><div class="ttname"><a href="classsmooth_1_1feedback_1_1detail_1_1LDLTLapack.html">smooth::feedback::detail::LDLTLapack</a></div><div class="ttdoc">Wrapper for LAPACKE xSYTRF / xSYTRS routines for factorizing and solving symmetric linear systems of ...</div><div class="ttdef"><b>Definition:</b> <a href="ldlt__lapack_8hpp_source.html#l00061">ldlt_lapack.hpp:62</a></div></div>
 <div class="ttc" id="aldlt__lapack_8hpp_html"><div class="ttname"><a href="ldlt__lapack_8hpp.html">ldlt_lapack.hpp</a></div><div class="ttdoc">Wrapper for lapack ldlt routines.</div></div>
 <div class="ttc" id="aldlt__sparse_8hpp_html"><div class="ttname"><a href="ldlt__sparse_8hpp.html">ldlt_sparse.hpp</a></div><div class="ttdoc">Sparse LDL' for non-singular matrices.</div></div>
 <div class="ttc" id="aqp_8hpp_html_a2151e5a179ada80d491aaaa0e0e88479"><div class="ttname"><a href="qp_8hpp.html#a2151e5a179ada80d491aaaa0e0e88479">smooth::feedback::solve_qp</a></div><div class="ttdeci">detail::qp_solution_t&lt; Pbm &gt; solve_qp(const Pbm &amp;pbm, const QPSolverParams &amp;prm, std::optional&lt; std::reference_wrapper&lt; const detail::qp_solution_t&lt; Pbm &gt;&gt;&gt; warmstart={})</div><div class="ttdoc">Solve a quadratic program using the operator splitting approach.</div><div class="ttdef"><b>Definition:</b> <a href="qp_8hpp_source.html#l00573">qp.hpp:573</a></div></div>

diff --git a/asif_8hpp.html b/asif_8hpp.html
@@ -96,7 +96,7 @@ Include dependency graph for asif.hpp:</div>
 <div class="center"><img src="asif_8hpp__incl.png" border="0" usemap="#ainclude_2smooth_2feedback_2asif_8hpp" alt=""/></div>
 <map name="ainclude_2smooth_2feedback_2asif_8hpp" id="ainclude_2smooth_2feedback_2asif_8hpp">
 <area shape="rect" title="Active Set Invariance Filtering (ASIF) on Lie groups." alt="" coords="357,5,524,47"/>
-<area shape="rect" title=" " alt="" coords="368,244,454,271"/>
+<area shape="rect" title=" " alt="" coords="370,244,455,271"/>
 <area shape="rect" title=" " alt="" coords="37,95,204,121"/>
 <area shape="rect" title=" " alt="" coords="228,95,402,121"/>
 <area shape="rect" title=" " alt="" coords="331,169,478,196"/>
@@ -111,7 +111,7 @@ Include dependency graph for asif.hpp:</div>
 <area shape="rect" title=" " alt="" coords="774,169,827,196"/>
 <area shape="rect" href="ldlt__lapack_8hpp.html" title="Wrapper for lapack ldlt routines." alt="" coords="851,169,1006,196"/>
 <area shape="rect" href="ldlt__sparse_8hpp.html" title="Sparse LDL&#39; for non&#45;singular matrices." alt="" coords="1030,169,1184,196"/>
-<area shape="rect" title=" " alt="" coords="890,244,967,271"/>
+<area shape="rect" title=" " alt="" coords="893,244,964,271"/>
 </map>
 </div>
 </div>

diff --git a/mpc_8hpp.html b/mpc_8hpp.html
@@ -97,7 +97,7 @@ Include dependency graph for mpc.hpp:</div>
 <div class="center"><img src="mpc_8hpp__incl.png" border="0" usemap="#ainclude_2smooth_2feedback_2mpc_8hpp" alt=""/></div>
 <map name="ainclude_2smooth_2feedback_2mpc_8hpp" id="ainclude_2smooth_2feedback_2mpc_8hpp">
 <area shape="rect" title="Model&#45;Predictive Control (MPC) on Lie groups." alt="" coords="239,5,406,47"/>
-<area shape="rect" title=" " alt="" coords="171,244,256,271"/>
+<area shape="rect" title=" " alt="" coords="172,244,257,271"/>
 <area shape="rect" title=" " alt="" coords="212,169,273,196"/>
 <area shape="rect" title=" " alt="" coords="32,169,179,196"/>
 <area shape="rect" title=" " alt="" coords="186,95,297,121"/>
@@ -112,7 +112,7 @@ Include dependency graph for mpc.hpp:</div>
 <area shape="rect" title=" " alt="" coords="393,169,447,196"/>
 <area shape="rect" href="ldlt__lapack_8hpp.html" title="Wrapper for lapack ldlt routines." alt="" coords="471,169,625,196"/>
 <area shape="rect" href="ldlt__sparse_8hpp.html" title="Sparse LDL&#39; for non&#45;singular matrices." alt="" coords="649,169,804,196"/>
-<area shape="rect" title=" " alt="" coords="509,244,587,271"/>
+<area shape="rect" title=" " alt="" coords="513,244,583,271"/>
 </map>
 </div>
 </div>

diff --git a/ldlt__lapack_8hpp.html b/ldlt__lapack_8hpp.html
@@ -83,15 +83,15 @@ $(function() {
 <p>Wrapper for lapack ldlt routines.  
 <a href="#details">More...</a></p>
 <div class="textblock"><code>#include &lt;Eigen/Core&gt;</code><br />
-<code>#include &lt;lapacke.h&gt;</code><br />
+<code>#include &lt;lapack.h&gt;</code><br />
 </div><div class="textblock"><div class="dynheader">
 Include dependency graph for ldlt_lapack.hpp:</div>
 <div class="dyncontent">
 <div class="center"><img src="ldlt__lapack_8hpp__incl.png" border="0" usemap="#ainclude_2smooth_2feedback_2internal_2ldlt__lapack_8hpp" alt=""/></div>
 <map name="ainclude_2smooth_2feedback_2internal_2ldlt__lapack_8hpp" id="ainclude_2smooth_2feedback_2internal_2ldlt__lapack_8hpp">
-<area shape="rect" title="Wrapper for lapack ldlt routines." alt="" coords="17,5,183,47"/>
+<area shape="rect" title="Wrapper for lapack ldlt routines." alt="" coords="15,5,182,47"/>
 <area shape="rect" title=" " alt="" coords="5,95,91,121"/>
-<area shape="rect" title=" " alt="" coords="115,95,192,121"/>
+<area shape="rect" title=" " alt="" coords="115,95,186,121"/>
 </map>
 </div>
 </div><div class="textblock"><div class="dynheader">

diff --git a/qp_8hpp.html b/qp_8hpp.html
@@ -106,8 +106,8 @@ Include dependency graph for qp.hpp:</div>
 <area shape="rect" title=" " alt="" coords="447,95,501,121"/>
 <area shape="rect" href="ldlt__lapack_8hpp.html" title="Wrapper for lapack ldlt routines." alt="" coords="703,95,858,121"/>
 <area shape="rect" href="ldlt__sparse_8hpp.html" title="Sparse LDL&#39; for non&#45;singular matrices." alt="" coords="525,95,679,121"/>
-<area shape="rect" title=" " alt="" coords="685,169,770,196"/>
-<area shape="rect" title=" " alt="" coords="794,169,871,196"/>
+<area shape="rect" title=" " alt="" coords="686,169,771,196"/>
+<area shape="rect" title=" " alt="" coords="796,169,867,196"/>
 </map>
 </div>
 </div><div class="textblock"><div class="dynheader">
